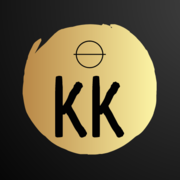
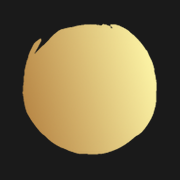
updated theme

diff --git a/index.html b/index.html
@@ -2,7 +2,7 @@
 <head>
   <meta charset="utf-8">
   <meta name="viewport" content="width=device-width, initial-scale=1, shrink-to-fit=no">
-  <title>Lore</title>
+  <title>KK</title>
   <link rel="shortcut icon" href="favicon-16.png" type="image/x-icon">
   <link rel="apple-touch-icon" sizes="180x180" href="apple-touch-icon.png">
   <link rel="icon" type="image/png" sizes="384x384" href="favicon-384.png">
@@ -10,7 +10,7 @@
   <link rel="icon" type="image/png" sizes="32x32" href="favicon-32.png">
   <link rel="icon" type="image/png" sizes="16x16" href="favicon-16.png">
   <link rel="manifest" href="site.webmanifest">
-  <meta name="theme-color" content="#121212">
+  <meta name="theme-color" content="#1e1e1e">
   <style>*,::after,::before{box-sizing:border-box}html{font-family:sans-serif;line-height:1.15;-webkit-text-size-adjust:100%;-ms-text-size-adjust:100%;-ms-overflow-style:scrollbar;-webkit-tap-highlight-color:transparent}@-ms-viewport{width:device-width}aside,main,nav{display:block}body{margin:0;font-family:-apple-system,BlinkMacSystemFont,"Segoe UI",Roboto,"Helvetica Neue",Arial,sans-serif,"Apple Color Emoji","Segoe UI Emoji","Segoe UI Symbol";font-size:1rem;font-weight:400;line-height:1.6;background-color:#1e1e1e;color:#d4d4d4;text-align:left}[tabindex="-1"]:focus{outline:0!important}h1,h2,h3,h4,h5,h6{margin-top:-1rem;margin-bottom:.5rem;padding-top:1rem;text-align:center}h2{margin-top:-1.5rem;padding-top:1.5rem;color:#505050;text-align:right}h2:before{content:'—';margin-right:.6rem}p,ul{margin-top:0;margin-bottom:1rem}ul ul{margin-bottom:0}strong{font-weight:bolder}a,a:hover{text-decoration:none}a{background-color:transparent;-webkit-text-decoration-skip:objects;color:#3b8eea}a:hover{color:#3176c2}button{margin:0;overflow:visible;-webkit-appearance:button;border-radius:0;font-family:inherit;font-size:inherit;line-height:inherit;text-transform:none}button:focus{outline:1px dotted;outline:5px auto -webkit-focus-ring-color}button::-moz-focus-inner{padding:0;border-style:none}.container{display:flex}.toggle{display:none}aside{width:20rem;min-width:20rem;height:100vh;overflow-x:hidden;overflow-y:auto;position:sticky;top:0;background:#252526}.navigation{padding:1.5rem 2rem;font-weight:700;line-height:1.8}.navigation ul{padding-left:0;list-style:none}.navigation ul ul{padding-left:1rem;padding-bottom:1rem}.navigation a{display:block}.navigation>ul>li>a{color:#505050}main{width:100%}.content{max-width:50rem;margin:auto;padding:1.5rem}@media (max-width:64rem){body{overflow-x:hidden}.toggle,aside{transition:transform .5s;will-change:transform}aside{margin-left:-20rem;z-index:10}.container.open aside{transform:translate3d(20rem,0,0)}.toggle{display:block;height:0;width:0;position:sticky;top:0;left:0}.toggle button{width:2.5rem;padding:.5rem;z-index:10;background:#1e1e1e;border:0;border-bottom-right-radius:.5rem;color:#d4d4d4;font-size:1.5rem;line-height:1}.toggle button:focus{outline:0}.container.open .toggle{transform:translate3d(20rem,0,0);transition-timing-function:ease-in-out}}</style>
   <script>
     window.addEventListener('load', () => navigator.serviceWorker.register('sw.js'));
